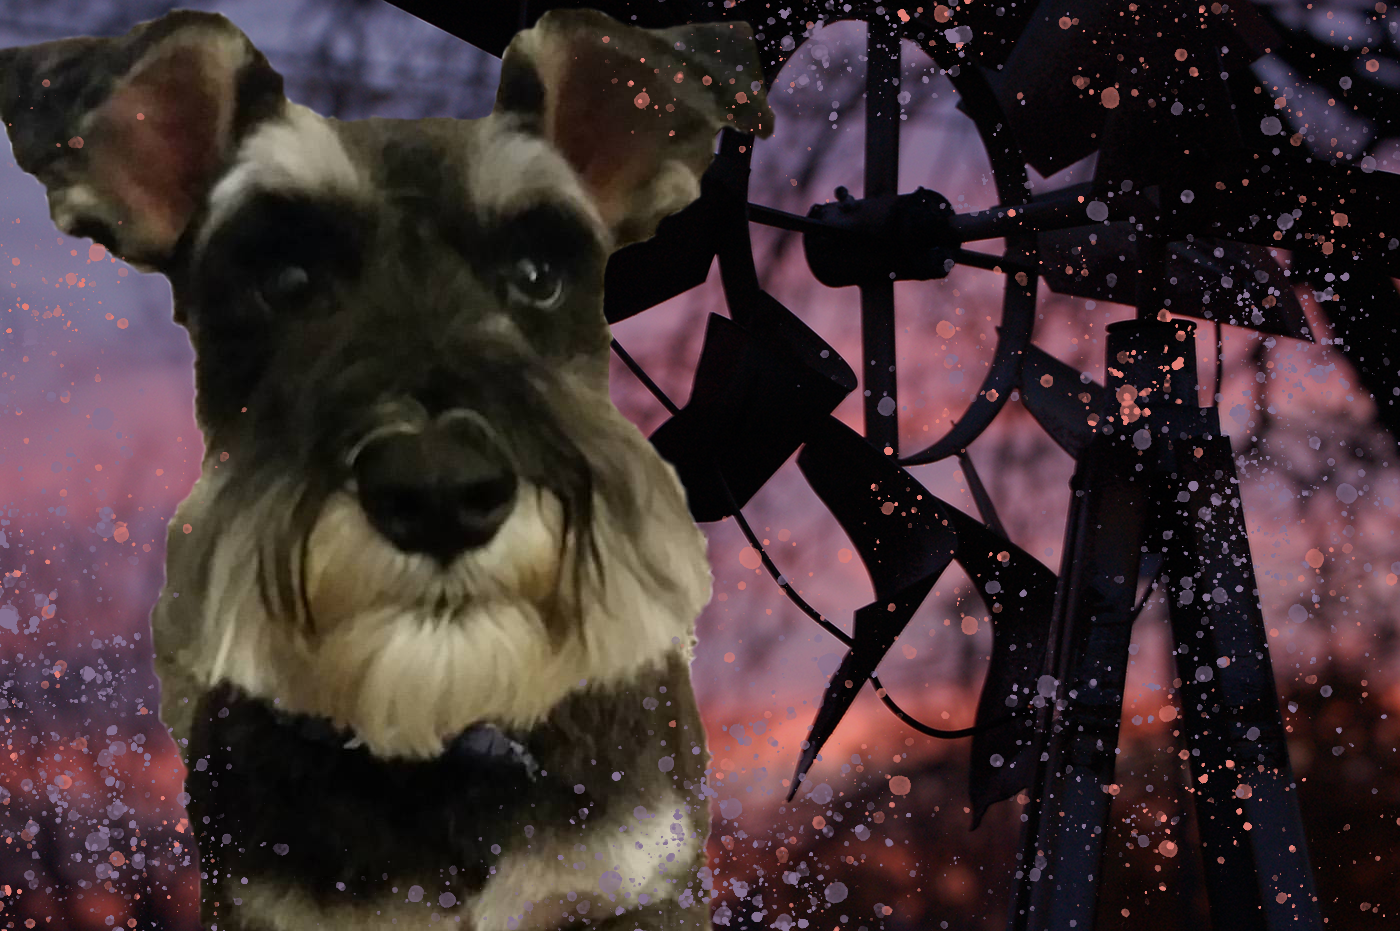
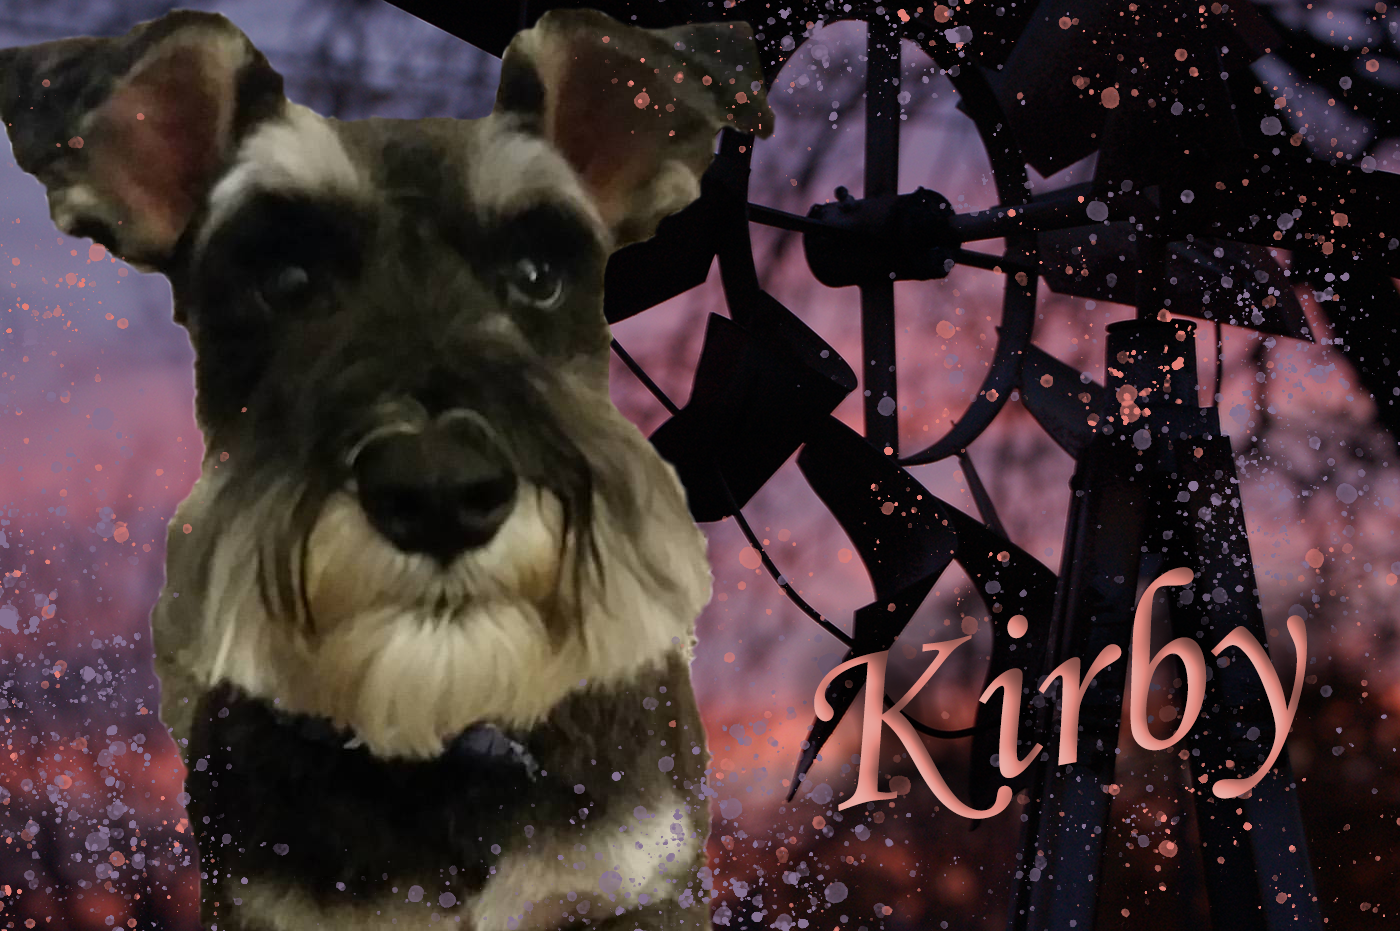
updated index, css, and img files

Changed region(s): [[0.5529, 0.5918, 0.9829, 0.9033]]

diff --git a/team-kirby/index.html b/team-kirby/index.html
@@ -1,24 +1,32 @@
 <!doctype html>
 <html>
     <head>
-        <title>Team Kirby</title>
-         <meta charset="utf-8">
+        <title>Michelle Schoofs - Team Kirby</title>
+        <meta charset="utf-8">
+        <meta name="viewport" content="width=device-width, initial-scale=1.0">
+        <meta name="author" content="Michelle Schoofs">
 
         <link rel="stylesheet" href="css/normalize.css">
         <link rel="stylesheet" href="css/main.css">
 
         <link href="https://fonts.googleapis.com/css?family=Varela+Round" rel="stylesheet">
+        <link href="https://fonts.googleapis.com/css?family=Poppins:400,500i,700,700i" rel="stylesheet">
+
     </head>
 
-<body>
+<body class="container">
 
 <!--HEADER NAV-->
         
     <header>
-        <div class="full-width"  id="hello">
+        <div class="full-width"  id="hdr-blk">
 
-            <div class="full-width">
-              <nav>
+            <div class="half-width" id="hello">
+              <h1>Michelle Schoofs &dash; Team Kirby</h1>
+            </div>
+                
+            <div class half-width id="where">
+            <nav>
                 <ul>
                     <li><a href="../index.html">Home</a></li>
                     <li><a href="#about">About Kirby</a></li>
@@ -33,8 +41,8 @@
 
 <!--PICTURE/NAME-->
     <div class="full-width">
-        <div class="full-width">
-            <h2>Kirby</h2>
+        <div class="full-width" id="pic-spot">
+<!--PICTUREPLACEHOLDER-->            
        </div>
     </div>
     
@@ -43,8 +51,9 @@
 <!--DETAILS-->
 <div class="full-width">
     <div class="full-width" id="about">
+        
         <div class="third-width" id="stats">
-            <h4>Full Name&colon; Kirby Tattertot Fezziwig</h4>
+            <h4>Full Name&colon;<br> Kirby Tattertot Fezziwig</h4>
             <p>Born March 21, 2015</p>
 
             <h3>Aliases&colon;</h3>
@@ -52,10 +61,12 @@
                     <li>AKA &dash; Kirbatator</li>
                     <li>AKA &dash; Kirbzilla</li>
                     <li>AKA &dash; The Instigator</li>
+                    <li>AKA &dash; Little Goat Boy</li>
                     <li>AKA &dash; Sassy Pants</li>
                 </ul>
 
-            <h3>Favorite Toys &dash; White Robot toy</h3>
+            <h3>Favorite Toys &dash;</h3>
+                <p>White Robot toy and anything else he can get his teeth into.</p>
                             
             <h3>Favorite Snack&colon;</h3>
                 <p>Kirby never met a snack that he didn't like. His Motto is, &apos;I want to go outside, not to go outside, but to get the treat when I come in!&apos;</p>
@@ -63,9 +74,9 @@
         
         <div class="third-width" id="story">
             <h4>Kirby's Story</h4>
-            <p>Kirby was joined the family at two and a half month's old. He was the last of his litter to be picked and spent several weeks all on his own. His first meeting with his new brother, Max, was a bit tenuous, but they soon got along like they had been together all along.</p>
-            <pa>Kirby is a sassy boy who likes to play hard, and snack even more. His life's mission seems to be dancing in front of people as they walk through the room and the strategic placement of all toys in the center of everyone's path so they trip over them. He is very good at his job.</pa>
-            <p>Kirby is a sweet boy who loves tummy rubs and but is always a bit too wiggly for being held. Yet if you give him scratches, he'll snuggle into your legs as long as yougive his ears attention. </p>
+            <p>Kirby was joined the family at two and a half month's old. He was the last of his litter to be picked and spent several weeks all on his own before we picked him up. His first meeting with his new brother, Max, was a bit tenuous, but they soon got along like they had been together all along.</p>
+            <p>Kirby is a sassy boy who likes to play hard, and snack even more. His life's mission seems to be dancing in front of people as they walk through the room and the strategic placement of all toys in the center of everyone's path, so they trip over them. He is very good at his job. He is intimidated by larger dogs and will be sure to let them know who the boss is right up front.</p>
+            <p>Kirby is a sweet boy who loves tummy rubs and but is always a bit too wiggly when being held too long. He also loves shoulder massages and will melt if you hit the right spot. If you give him scratches, he'll snuggle into your legs as long as you give his ears attention. </p>
         </div>
         
         <div class="third-width" id="kirby-pic">

diff --git a/team-kirby/css/main.css b/team-kirby/css/main.css
@@ -1,0 +1,107 @@
+/*****BASESTYLES*****/
+
+.container {
+    width: 1400px;
+    margin: 50px;
+    background: black;
+}
+
+.full-width {
+    width: 1400px;
+}
+
+.half-width {
+    width: 700px;
+    float: left;
+}
+
+.third-width {
+    width: 435px;
+    height: auto;
+    float: left;
+}
+
+/******HEADER-LINKS******/
+#hdr-blk {
+    width: 1400px;
+    height: 50px;
+    clear: both;
+}
+
+h1 {
+    font-family: 'Poppins', sans-serif;
+    font-size: 33px;
+    color: #f4c5d9;
+}
+
+nav {
+  float: right;
+  padding: 15px 25px;
+}
+
+ nav ul li {
+   display: inline-block;
+ }
+
+ nav ul li a {
+   font-family: 'Varela Round', sans-serif;
+   font-weight: bold;
+   color: #f4c5d9;
+   text-decoration: none;
+   font-size: 30px;
+   padding-left: 45px;
+ }
+
+/*******PICTURE-NAME******/
+
+#pic-spot {
+    width: 1400px;
+    height: 1000px;
+    background: url('../img/kirby-header.png');
+    background-size: cover;
+    clear: both;
+}
+
+
+/*******DETAILS*******/
+#about {
+    clear: both;
+}
+
+h4 {
+    font-family: 'Varela Round', sans-serif;
+    font-size: 25px;
+    color: #e7a098;
+    text-align: center;
+}
+
+h3 {
+    font-family: 'Poppins', sans-serif;
+    font-size: 20px;
+    color: #9aabd4;
+    text-align: center;
+}
+
+p {
+    font-family: 'Poppins', sans-serif;
+    font-size: 17px;
+    color: #b7b093;
+    text-indent: 20px;
+}
+
+#stats ul {
+    text-indent: 10px;
+}
+li {
+    font-family: 'Verela Round', sans-serif;
+    font-size: 20px;
+    color: #b7b093;
+}
+
+#story {
+    padding: 0 35px 0 35px;
+}
+
+#kirby-pic {
+    padding: 0 0px 0 20px;
+}
